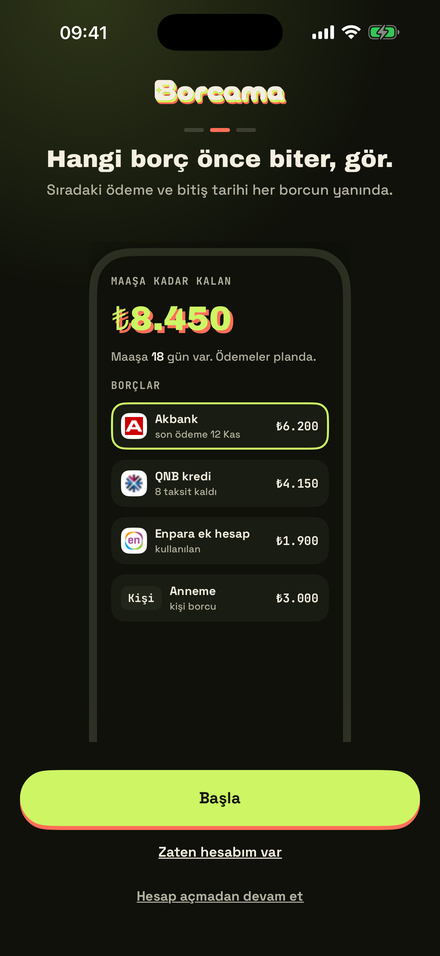
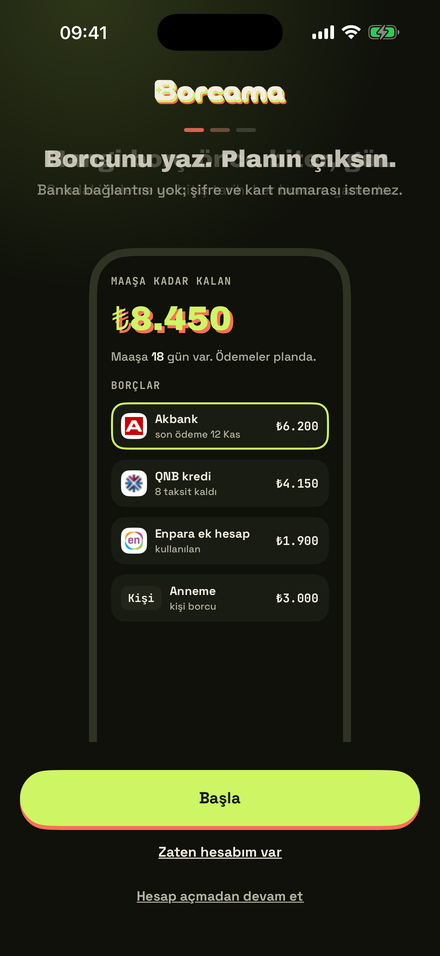
iOS: karşılama maketinin kırpılan gölgesi kaldırıldı (build 33)

Changed region(s): [[0.0886, 0.1213, 0.9159, 0.2123]]

diff --git a/ios/App/App/NativeOnboarding.swift b/ios/App/App/NativeOnboarding.swift
@@ -977,8 +977,9 @@ struct OBMaket: View {
         .clipShape(OBUstYuvarlak(yaricap: 32))
         .padding(.horizontal, 8)
         .padding(.top, 8)
+        // Golge yok: ust kapta kirpildigi icin cercevenin etrafinda dikdortgen
+        // bir leke birakiyordu.
         .background(OBUstYuvarlak(yaricap: 40).fill(OBRenk.cerceve))
-        .shadow(color: Color.black.opacity(0.18), radius: 20, x: 0, y: -10)
         .accessibilityElement(children: .ignore)
         .accessibilityLabel(d.t("onboarding.karsilama.ornekAria"))
     }
